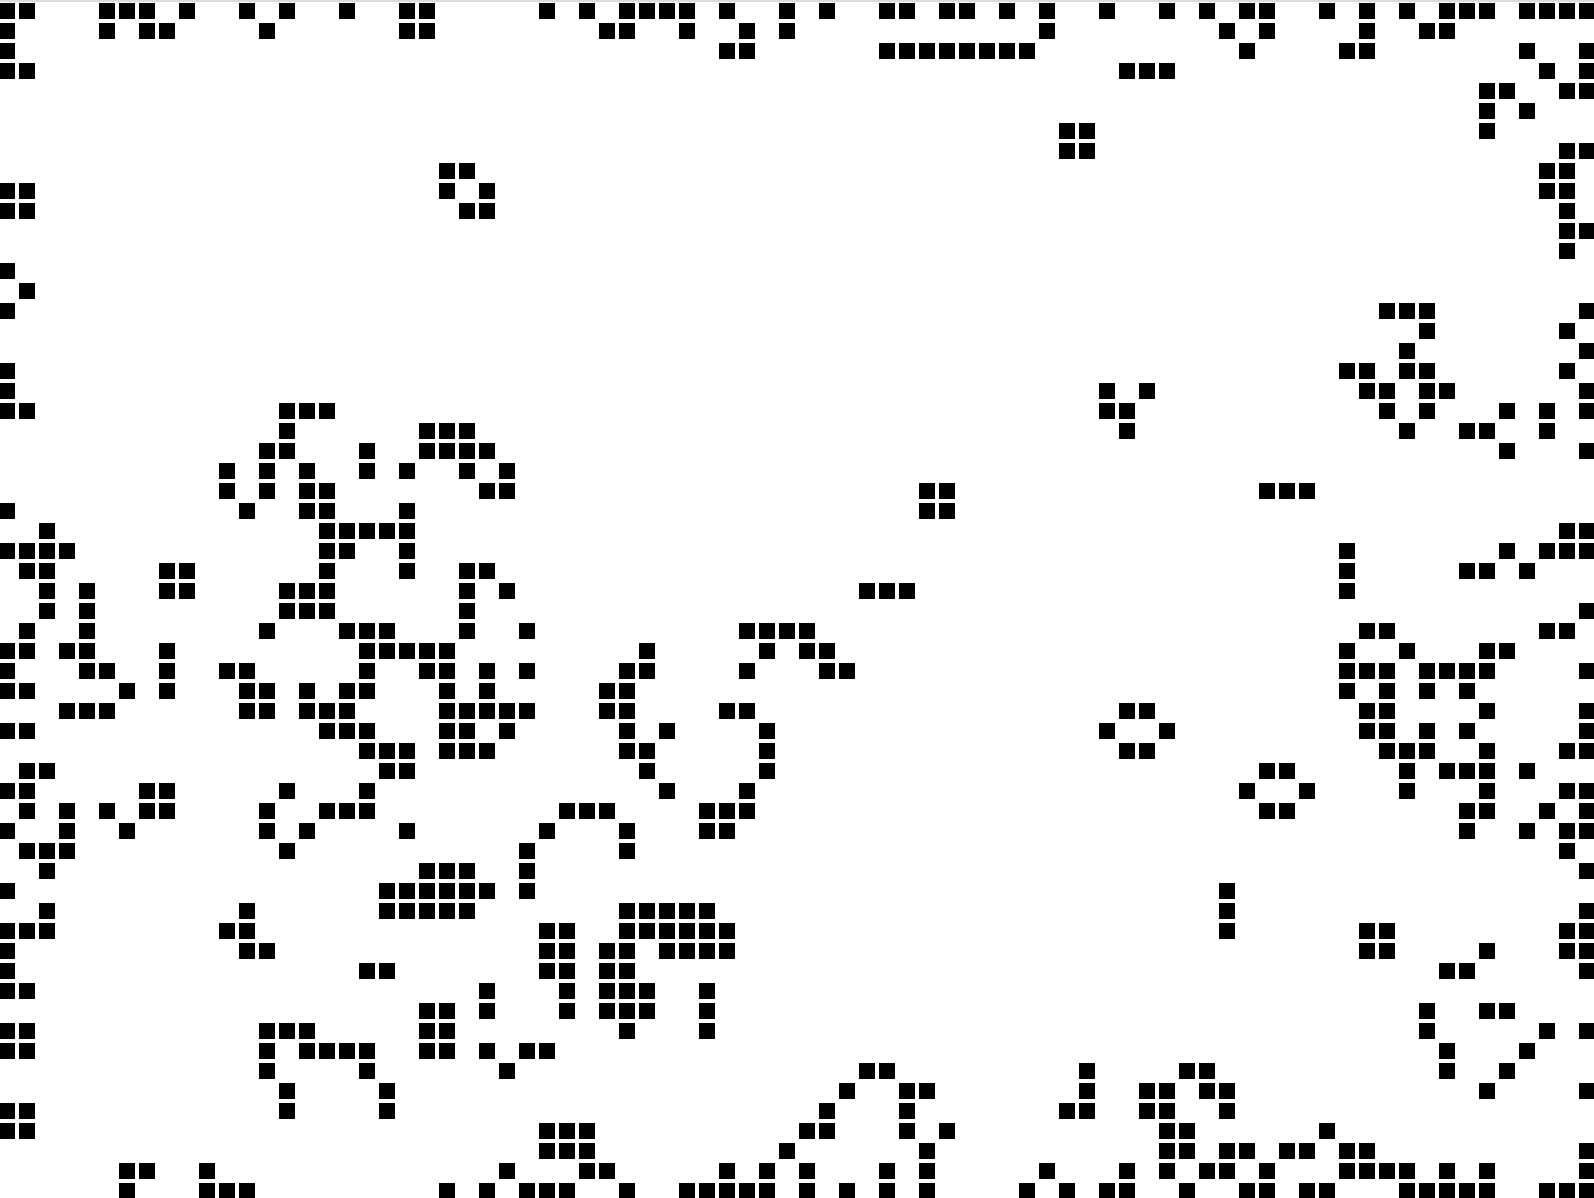
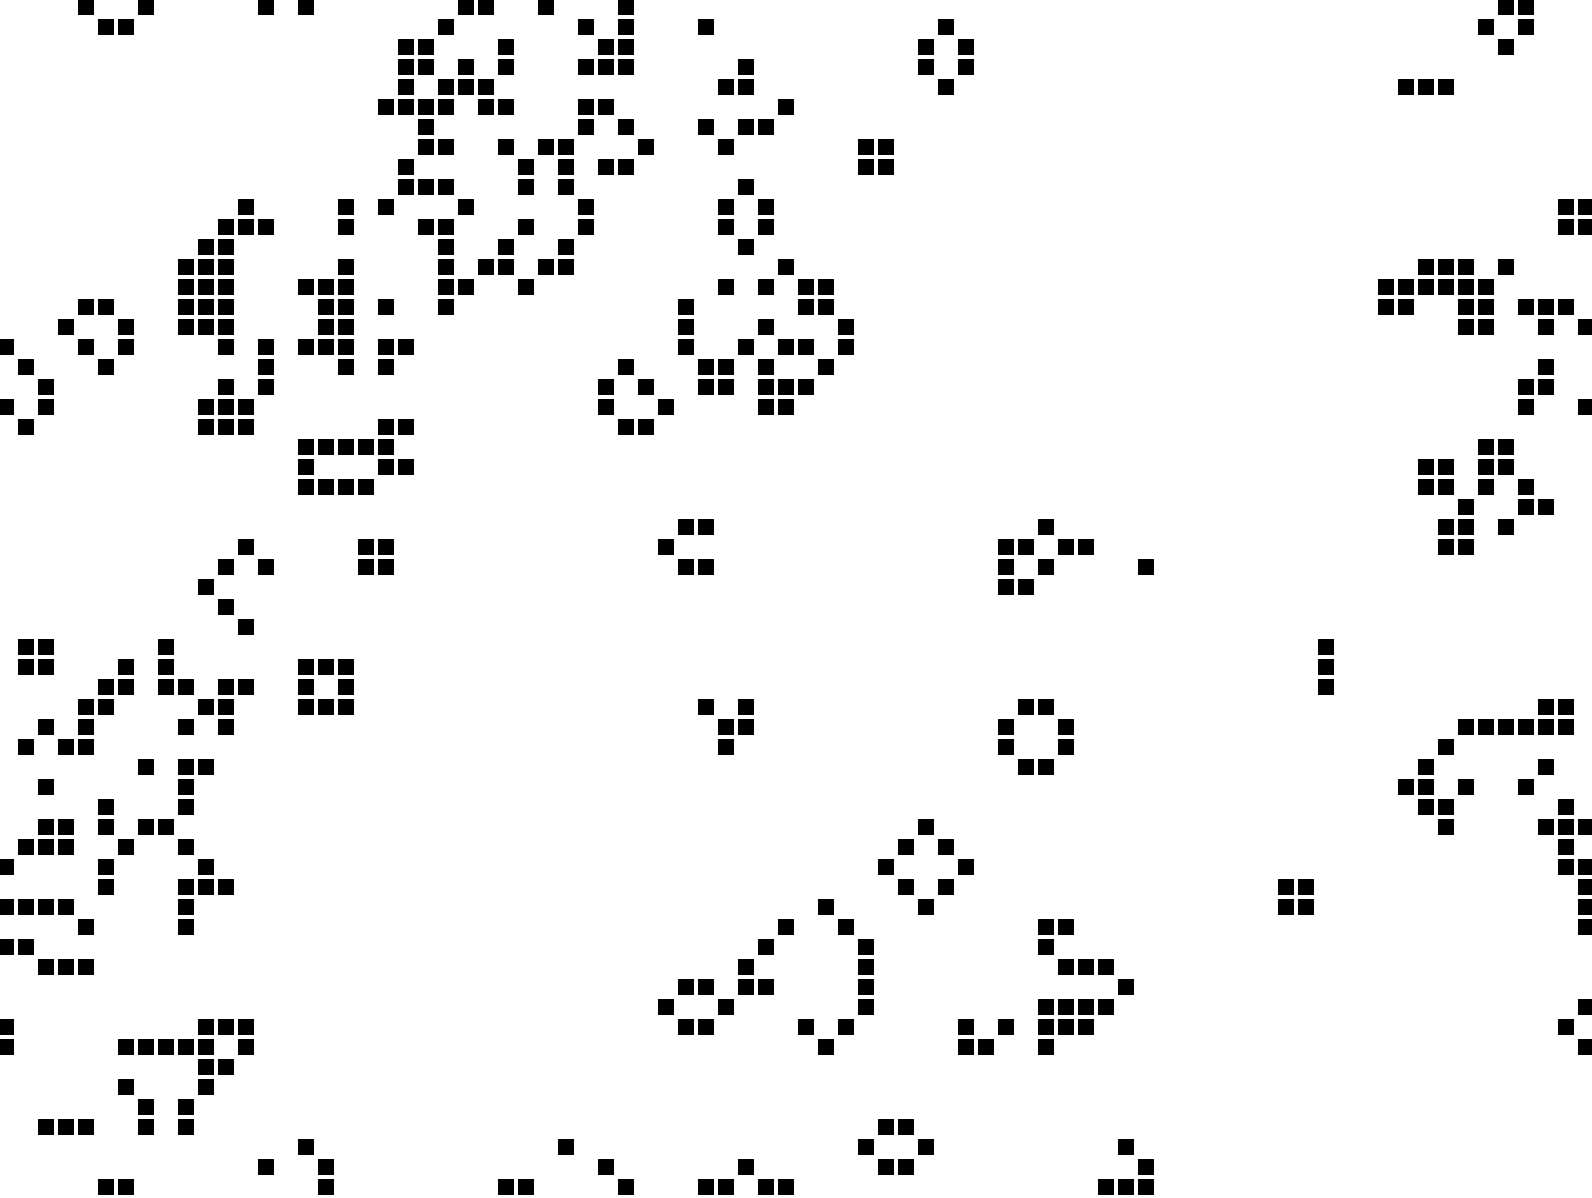
Draw and Pause in Game of Life

diff --git a/GameOfLife/sketch.js b/GameOfLife/sketch.js
@@ -10,6 +10,7 @@ let grid;
 let cols;
 let rows;
 let resolution = 10;
+let run = false;
 
 function setup() {
   createCanvas(800, 600);
@@ -18,13 +19,24 @@ function setup() {
   grid = make2DArray(cols, rows);
   for (let i = 0; i < cols; i++) {
     for (let j = 0; j < rows; j++) {
-      grid[i][j] = floor(random(2));
+      // grid[i][j] = floor(random(2));
+      grid[i][j] = 0;
     }
   }
 }
 
 function draw() {
   background(255);
+
+  if (mouseIsPressed && mouseX >= 0 && mouseX <= width && mouseY >= 0 && mouseY <= height) {
+    let x = floor(map(mouseX, 0, width, 0, width / resolution));
+    let y = floor(map(mouseY, 0, height, 0, height / resolution));
+    grid[x][y] = 1;
+  } else if (mouseIsPressed && keyIsPressed === true && mouseX >= 0 && mouseX <= width && mouseY >= 0 && mouseY <= height) {
+    let x = floor(map(mouseX, 0, width, 0, width / resolution));
+    let y = floor(map(mouseY, 0, height, 0, height / resolution));
+    grid[x][y] = 0;
+  }
 
   for (let i = 0; i < cols; i++) {
     for (let j = 0; j < rows; j++) {
@@ -39,14 +51,11 @@ function draw() {
     }
   }
 
-  let next = make2DArray(cols, rows);
-
-  for (let i = 0; i < cols; i++) {
-    for (let j = 0; j < rows; j++) {
-      let state = grid[i][j];
-      if(i == 0 || i == cols - 1 || j == 0 || j == rows - 1) {
-        next[i][j] = state;
-      } else {
+  if (run) {
+    let next = make2DArray(cols, rows);
+    for (let i = 0; i < cols; i++) {
+      for (let j = 0; j < rows; j++) {
+        let state = grid[i][j];
         let sum = 0;
         let neighbors = countNeighbors(grid, i, j);
 
@@ -59,9 +68,15 @@ function draw() {
         }
       }
     }
+    grid = next;
+  } else {
+    textSize(40);
+    fill(0, 255, 0);
+    text('Pause', 50, 50);
+    textSize(20);
+    fill(0, 255, 0);
+    text('Press ENTER to Start', 50, 75);
   }
-
-  grid = next;
 }
 
 function countNeighbors(grid, x, y) {
@@ -69,12 +84,23 @@ function countNeighbors(grid, x, y) {
   for (let i = -1; i < 2; i++) {
     for (let j = -1; j < 2; j++) {
 
-      let col = (x + i) % cols;
-      let row = (y + j) % rows;
+      let col = (x + i + cols) % cols;
+      let row = (y + j + rows) % rows;
 
       sum += grid[col][row];
     }
   }
   sum -= grid[x][y];
   return sum;
+}
+
+function keyPressed() {
+  if (keyCode === ENTER) {
+    if (run == true) {
+      run = false;
+    } else {
+      run = true;
+    }
+  }
+  return false;
 }

diff --git a/GameOfLife/index.html b/GameOfLife/index.html
@@ -4,7 +4,7 @@
 <head>
   <meta charset="utf-8">
   <meta name="viewport" content="width=device-width, initial-scale=1.0">
-  <title>p5.js example</title>
+  <title>Game of Life</title>
   <style>
     body {
       padding: 0;
